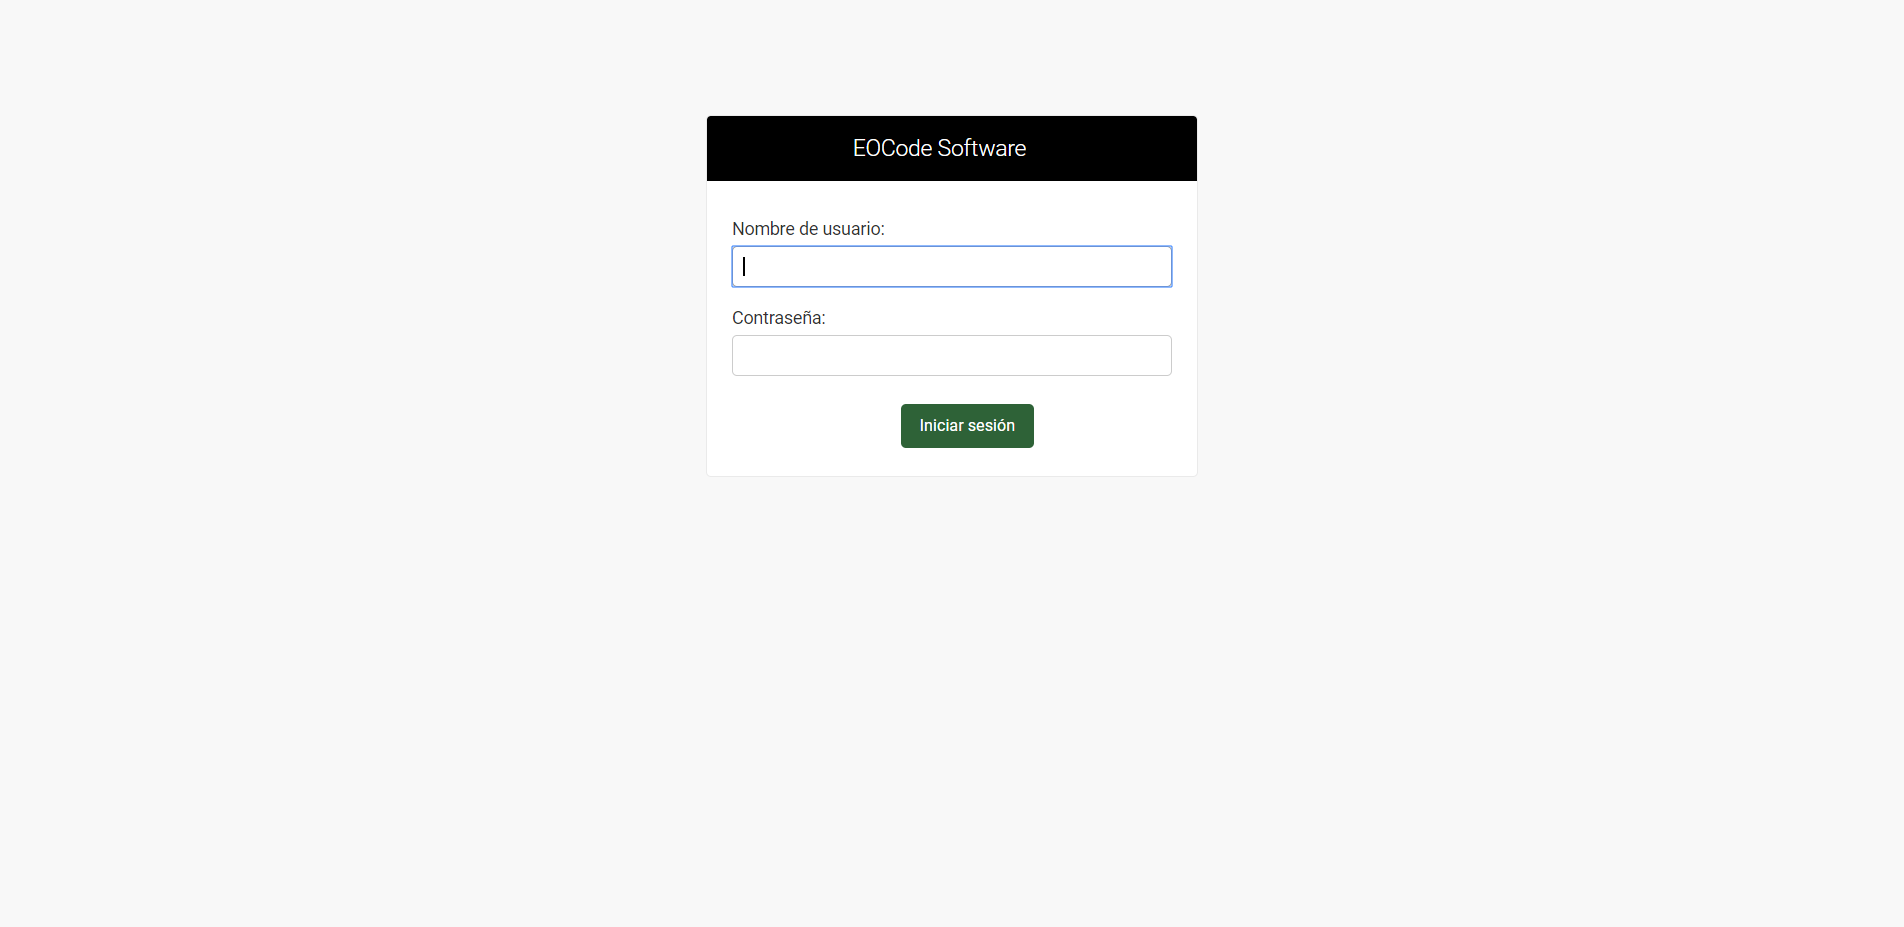
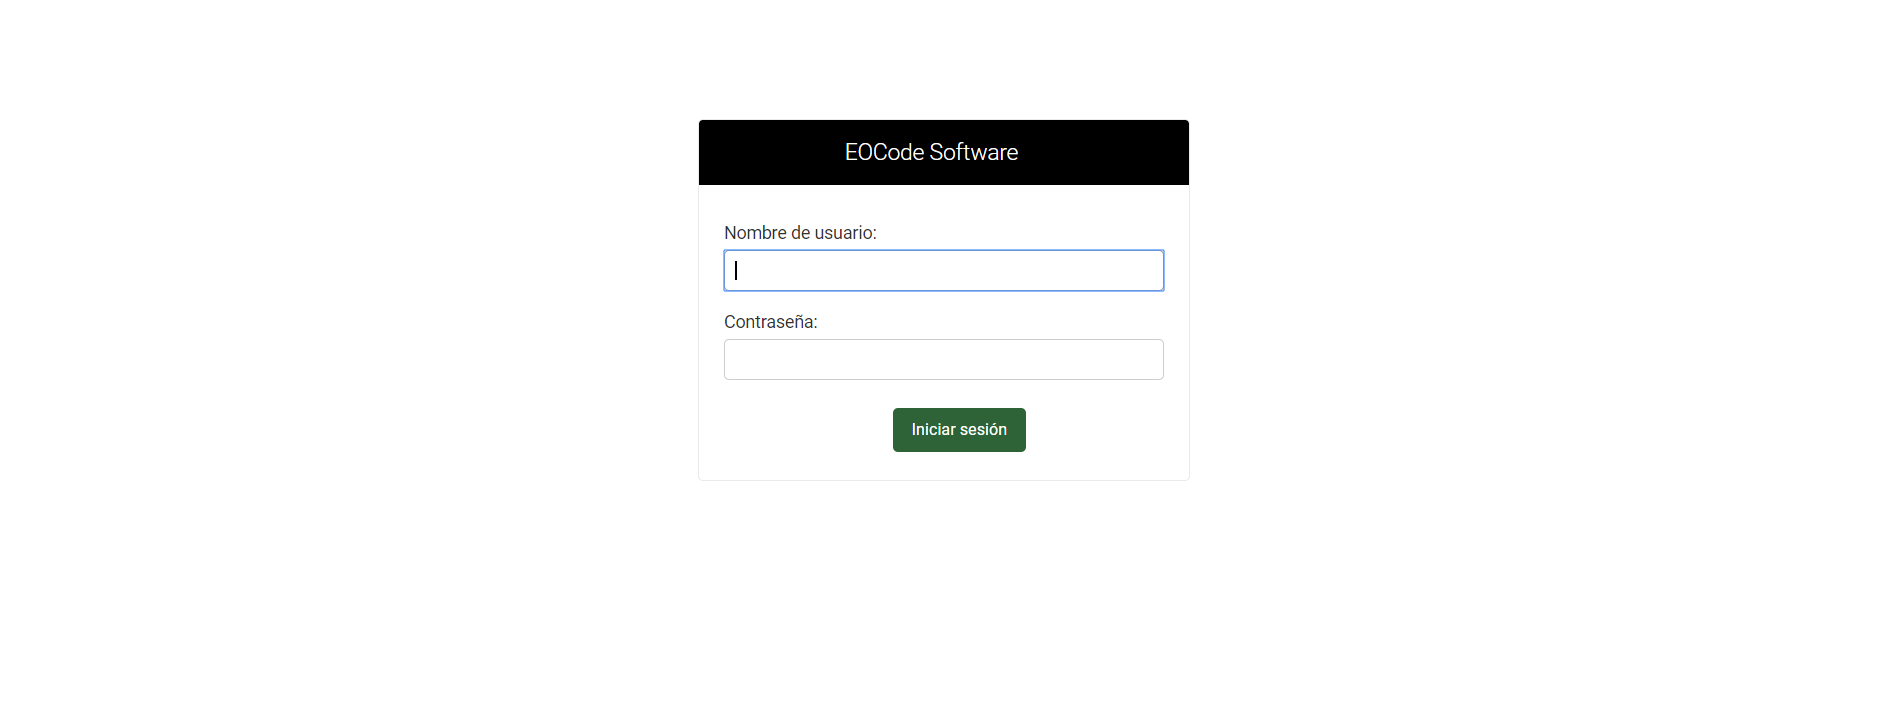
:rocket: Update Readme admin image

Changed region(s): [[0.3416, 0.1245, 0.6521, 0.3734], [0.3726, 0.4045, 0.6211, 0.4979], [0.4658, 0.5601, 0.5589, 0.6535]]

diff --git a/templates/admin/base_site.html b/templates/admin/base_site.html
@@ -43,6 +43,10 @@
         #content-related {
             background: #fffbee;
         }
+
+        body.login {
+            background: #ffffff !important;
+        }
     </style>
 
 {% endblock %}

diff --git a/README.md b/README.md
@@ -25,7 +25,7 @@ Practice Django with a page with personal info and contact
 
 <div align="center">
   <img src="img/admin.png">
-  <small><p>Portafolio de proyectos</p></small>
+  <small><p>Personalized Admin</p></small>
 </div>
 
 <div align="center">
